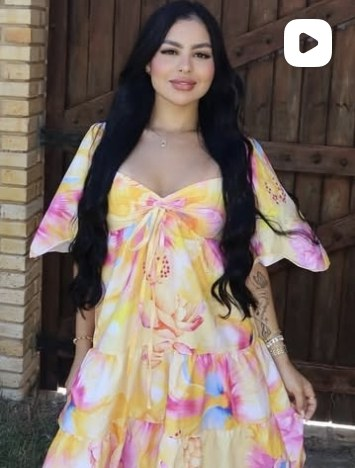
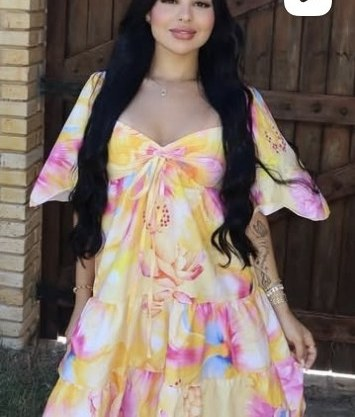
Mobile: carrossel no topo, botões de tamanho, cards compactos e botão do WhatsApp
Claude-Session: https://claude.ai/code/session_01DbWv146sJVj8ooHprwQZd9

diff --git a/index.html b/index.html
@@ -35,6 +35,8 @@ nav a{text-decoration:none;color:var(--cinza)}nav a:hover{color:var(--rosa-forte
 .hero-fotos{display:grid;grid-template-columns:1fr 1fr;gap:12px}
 .hero-fotos img{border-radius:16px;aspect-ratio:3/4;object-fit:cover;width:100%}
 .hero-fotos img:nth-child(2){margin-top:40px}
+.so-mobile{display:none}
+@media (max-width:760px){.so-mobile{display:block}}
 section{padding:72px 0}
 .titulo{text-align:center;margin-bottom:40px}
 .titulo h2{font-size:clamp(1.8rem,4vw,2.6rem)}
@@ -44,9 +46,16 @@ section{padding:72px 0}
 .produto img{border-radius:12px;aspect-ratio:3/4;object-fit:cover;width:100%;background:var(--rosa-claro)}
 .produto h3{font-size:1rem;font-weight:500}
 .produto .preco{font-weight:600;color:var(--rosa-forte)}
-.produto .linha{display:flex;gap:8px}
-.produto select{flex:0 0 72px;border:1px solid var(--borda);border-radius:999px;padding:0 10px;font:inherit;background:#fff}
-.produto .btn{flex:1;padding:10px 16px}
+.produto h3{display:-webkit-box;-webkit-line-clamp:2;-webkit-box-orient:vertical;overflow:hidden;min-height:3em}
+.produto .linha{display:flex;gap:8px;align-items:center;margin-top:auto}
+.tams{display:flex;gap:6px}
+.tams input{position:absolute;opacity:0;pointer-events:none}
+.tams label{width:36px;height:36px;border:1px solid var(--borda);border-radius:50%;display:grid;place-items:center;font-size:.85rem;cursor:pointer;background:#fff}
+.tams input:checked+label{background:var(--texto);border-color:var(--texto);color:#fff}
+.tams input:focus-visible+label{outline:2px solid var(--rosa-forte);outline-offset:2px}
+.produto .btn{flex:1;padding:10px 16px;min-height:40px}
+.zap{position:fixed;right:16px;bottom:16px;z-index:15;width:56px;height:56px;border-radius:50%;background:#25d366;display:grid;place-items:center;box-shadow:0 6px 20px rgba(0,0,0,.18)}
+.zap svg{width:30px;height:30px;fill:#fff}
 .frase{background:var(--rosa);text-align:center}
 .frase blockquote{font-family:"Playfair Display",serif;font-style:italic;font-size:clamp(1.3rem,3vw,2rem);max-width:760px;margin:0 auto;line-height:1.35}
 .frase cite{display:block;margin-top:16px;font-style:normal;color:var(--rosa-forte);font-weight:600}
@@ -80,8 +89,21 @@ body.aberto .fundo{opacity:1;pointer-events:auto}body.aberto .gaveta{transform:n
   .hero .wrap{grid-template-columns:1fr}
   section{padding:48px 0}
   .grade{grid-template-columns:repeat(2,1fr);gap:14px}
-  .produto .linha{flex-direction:column}
-  .produto select{flex:none;height:38px}
+  .hero h1{font-size:2.6rem}
+  .hero p{font-size:1rem;margin-bottom:20px}
+  .hero .acoes .btn{flex:1}
+  .hero-fotos{display:flex;gap:10px;overflow-x:auto;scroll-snap-type:x mandatory;margin:0 -16px;padding:0 16px;scrollbar-width:none}
+  .hero-fotos img{flex:0 0 62%;width:62%;scroll-snap-align:start;margin-top:0!important;aspect-ratio:4/5}
+  .titulo{margin-bottom:24px}
+  .produto{gap:6px}
+  .produto h3{font-size:.9rem}
+  .produto .linha{flex-direction:column;align-items:stretch}
+  .tams label{width:32px;height:32px}
+  .card{padding:20px;display:grid;grid-template-columns:1fr auto;align-items:center;gap:4px 12px}
+  .card h3{font-size:1.1rem;margin:0}
+  .card p{grid-column:1;margin:0;font-size:.9rem}
+  .card .btn{grid-column:2;grid-row:1/3;padding:10px 16px}
+  .carrinho-btn{padding:10px 0}
 }
 </style>
 </head>
@@ -109,6 +131,7 @@ body.aberto .fundo{opacity:1;pointer-events:auto}body.aberto .gaveta{transform:n
       <div class="hero-fotos">
         <img src="img/vestido-rosa-floral.jpg" alt="Vestido longo floral rosa">
         <img src="img/macacao-azul.jpg" alt="Macacão pantalona estampa azulejo">
+        <img src="img/vestido-coral-degrade.jpg" alt="Vestido degradê coral" class="so-mobile">
       </div>
     </div>
   </div>
@@ -131,7 +154,7 @@ body.aberto .fundo{opacity:1;pointer-events:auto}body.aberto .gaveta{transform:n
     <div class="wrap">
       <div class="titulo"><h2>Fale com a gente</h2></div>
       <div class="cards">
-        <div class="card"><h3>WhatsApp</h3><p>Tire dúvidas sobre tamanhos, prazos e entregas.</p><a class="btn" href="https://wa.me/5592984030605?text=Ol%C3%A1%20linda%2C%20amei%20as%20novidades%20e%20gostaria%20de%20fechar%20pedido.%20%F0%9F%92%95" target="_blank" rel="noopener">Chamar no WhatsApp</a></div>
+        <div class="card"><h3>WhatsApp</h3><p>Tire dúvidas sobre tamanhos, prazos e entregas.</p><a class="btn" href="https://wa.me/5592984030605?text=Ol%C3%A1%20linda%2C%20amei%20as%20novidades%20e%20gostaria%20de%20fechar%20pedido.%20%F0%9F%92%95" target="_blank" rel="noopener">Chamar</a></div>
         <div class="card"><h3>Grupo VIP 🐆</h3><p>Novidades e lançamentos antes de todo mundo.</p><a class="btn claro" href="https://chat.whatsapp.com/HIWg8Mg5Z0BID3vpeENOaS" target="_blank" rel="noopener">Entrar no grupo</a></div>
         <div class="card"><h3>Redes</h3><p>Looks, provadores e bastidores todos os dias.</p><a class="btn claro" href="https://www.instagram.com/use.oz_" target="_blank" rel="noopener">Instagram</a></div>
       </div>
@@ -146,6 +169,7 @@ body.aberto .fundo{opacity:1;pointer-events:auto}body.aberto .gaveta{transform:n
   </div>
 </footer>
 
+<a class="zap" href="https://wa.me/5592984030605?text=Ol%C3%A1%20linda%2C%20amei%20as%20novidades%20e%20gostaria%20de%20fechar%20pedido.%20%F0%9F%92%95" target="_blank" rel="noopener" aria-label="Falar no WhatsApp"><svg viewBox="0 0 24 24" aria-hidden="true"><path d="M12 2a10 10 0 0 0-8.6 15.1L2 22l5-1.3A10 10 0 1 0 12 2zm0 18.2c-1.5 0-3-.4-4.3-1.2l-.3-.2-3 .8.8-2.9-.2-.3A8.2 8.2 0 1 1 12 20.2zm4.5-6.1c-.2-.1-1.5-.7-1.7-.8-.2-.1-.4-.1-.6.1l-.8 1c-.1.2-.3.2-.5.1a6.7 6.7 0 0 1-3.3-2.9c-.3-.4.2-.4.7-1.3.1-.2 0-.3 0-.4l-.8-1.8c-.2-.5-.4-.4-.6-.4h-.5a1 1 0 0 0-.7.3 3 3 0 0 0-.9 2.2c0 1.3.9 2.5 1.1 2.7.1.2 1.9 2.9 4.6 4 1.7.7 2.4.8 3.2.7.5-.1 1.5-.6 1.7-1.2.2-.6.2-1.1.2-1.2-.1-.1-.3-.2-.5-.3z"/></svg></a>
 <div class="fundo" id="fundo"></div>
 <aside class="gaveta" aria-label="Sacola de compras">
   <header><h2>Sua sacola</h2><button class="fechar" id="fechar" aria-label="Fechar">×</button></header>
@@ -176,7 +200,7 @@ function renderGrade() {
       <h3>${p.nome}</h3>
       <span class="preco">${brl(p.preco)}</span>
       <div class="linha">
-        <select aria-label="Tamanho" id="tam-${p.id}">${TAMANHOS.map(t => `<option>${t}</option>`).join('')}</select>
+        <div class="tams" role="radiogroup" aria-label="Tamanho">${TAMANHOS.map(t => `<input type="radio" name="tam-${p.id}" id="tam-${p.id}-${t}" value="${t}"${t === 'M' ? ' checked' : ''}><label for="tam-${p.id}-${t}">${t}</label>`).join('')}</div>
         <button class="btn" data-add="${p.id}">Adicionar</button>
       </div>
     </article>`).join('');
@@ -198,7 +222,7 @@ function renderSacola() {
 document.addEventListener('click', e => {
   const add = e.target.dataset.add, mais = e.target.dataset.mais;
   if (add) {
-    const tam = $('tam-' + add).value;
+    const tam = document.querySelector(`input[name="tam-${add}"]:checked`).value;
     const i = sacola.find(i => i.id === add && i.tam === tam);
     i ? i.qtd++ : sacola.push({id: add, tam, qtd: 1});
     salvar(); renderSacola(); abrir(true);
